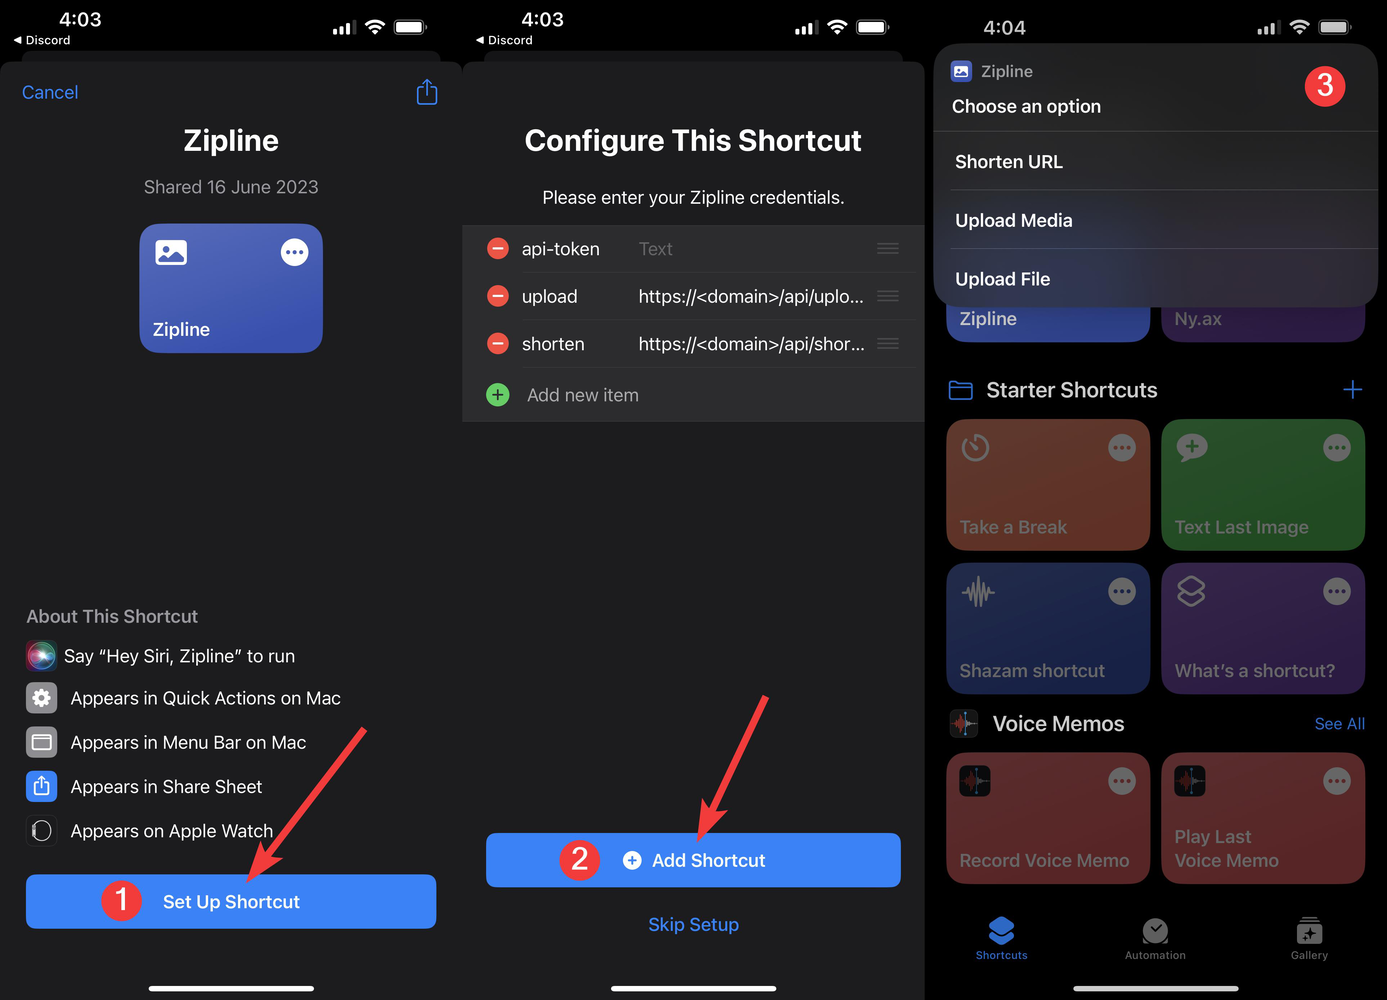
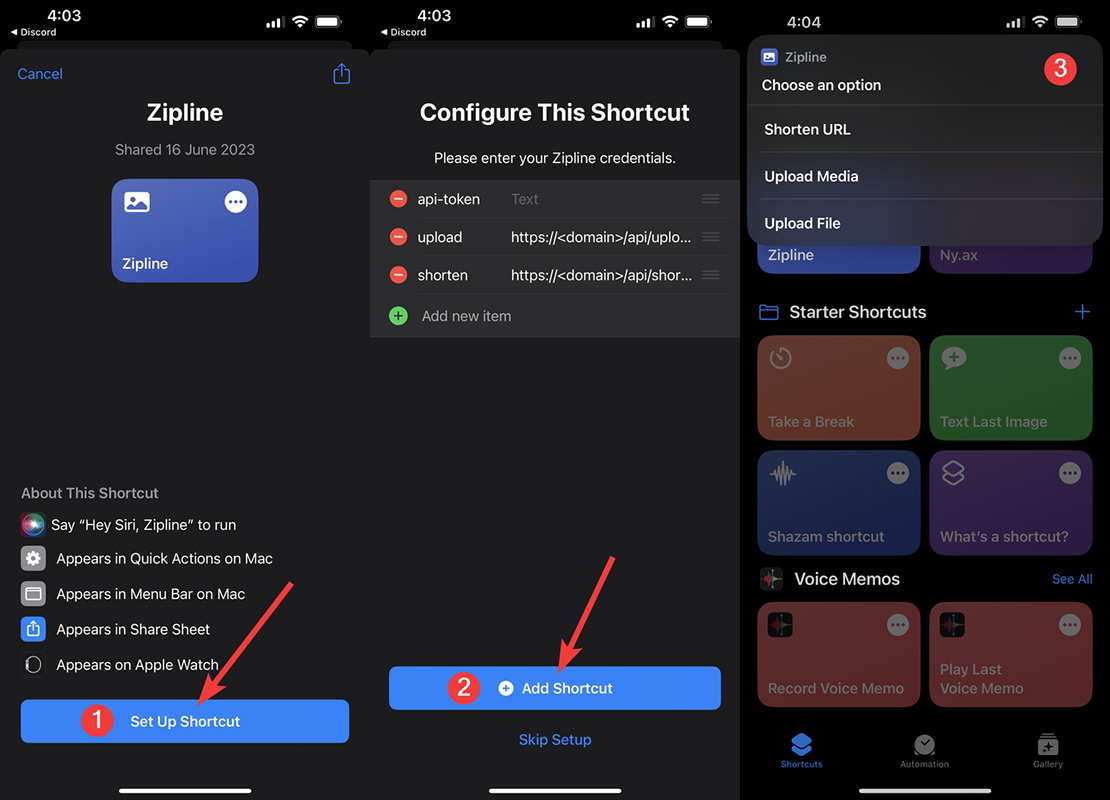
resized images and updated the url title from "Zipline" to "Zipline iCloud"

diff --git a/docs/guides/uploaders/ios-shortcuts.md b/docs/guides/uploaders/ios-shortcuts.md
@@ -5,7 +5,7 @@ sidebar_position: 4
 # iOS Shortcuts
 
 ## Install Shortcut
-To install the shortcut on your iOS device, head over to the [Zipline](https://www.icloud.com/shortcuts/6814cb233c0445a1b03fe0786bf6eb8c) iCloud page and tap "**Get Shortcut**". Your shortcuts app will then open and you will be prompted to set up the shortcut.
+To install the shortcut on your iOS device, head over to the [Zipline iCloud](https://www.icloud.com/shortcuts/6814cb233c0445a1b03fe0786bf6eb8c) page and tap "**Get Shortcut**". Your shortcuts app will then open and you will be prompted to set up the shortcut.
 
 The following credentials will need to be added
 
